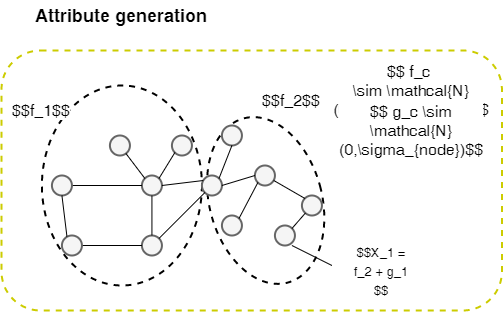
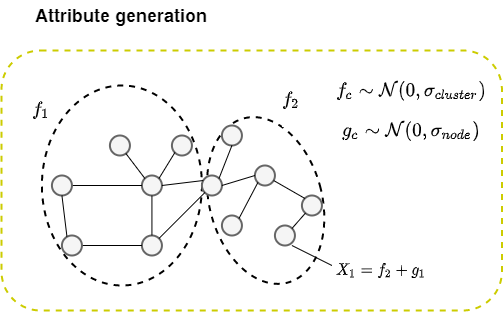
added attribute generation

diff --git a/README.rst b/README.rst
@@ -40,6 +40,10 @@ The overall scheme of the generator is presented on the picture:
 * For each group of nodes with the same label, the edges are generated according to ``BTER`` model on ``in-degree nodes`` - ``bter_model_edges()``
 * At the end, ``edges on out-degrees`` are generated for all nodes at ones
 
+Attributes are generated from normal distribution on node clusters adding noise from normal distribution:
+
+.. image:: docs/attribute_generation.png
+
 Examples
 --------
 
@@ -60,6 +64,7 @@ Reference Paper
 Polina Andreeva, Egor Shikov and Claudie Bocheninа 
 `"Attributed Labeled BTER-Based Generative Model for Benchmarking of Graph Neural Networks"  <http://www.mlgworkshop.org/2022/papers/MLG22_paper_5068.pdf>`_
 Proceedings of the 17th International Workshop on Mining and Learning with Graphs (MLG) 2022:
+
 
 @inproceedings{"mlg2022_5068",
     title={Attributed Labeled BTER-Based Generative Model for Benchmarking of Graph Neural Networks},
